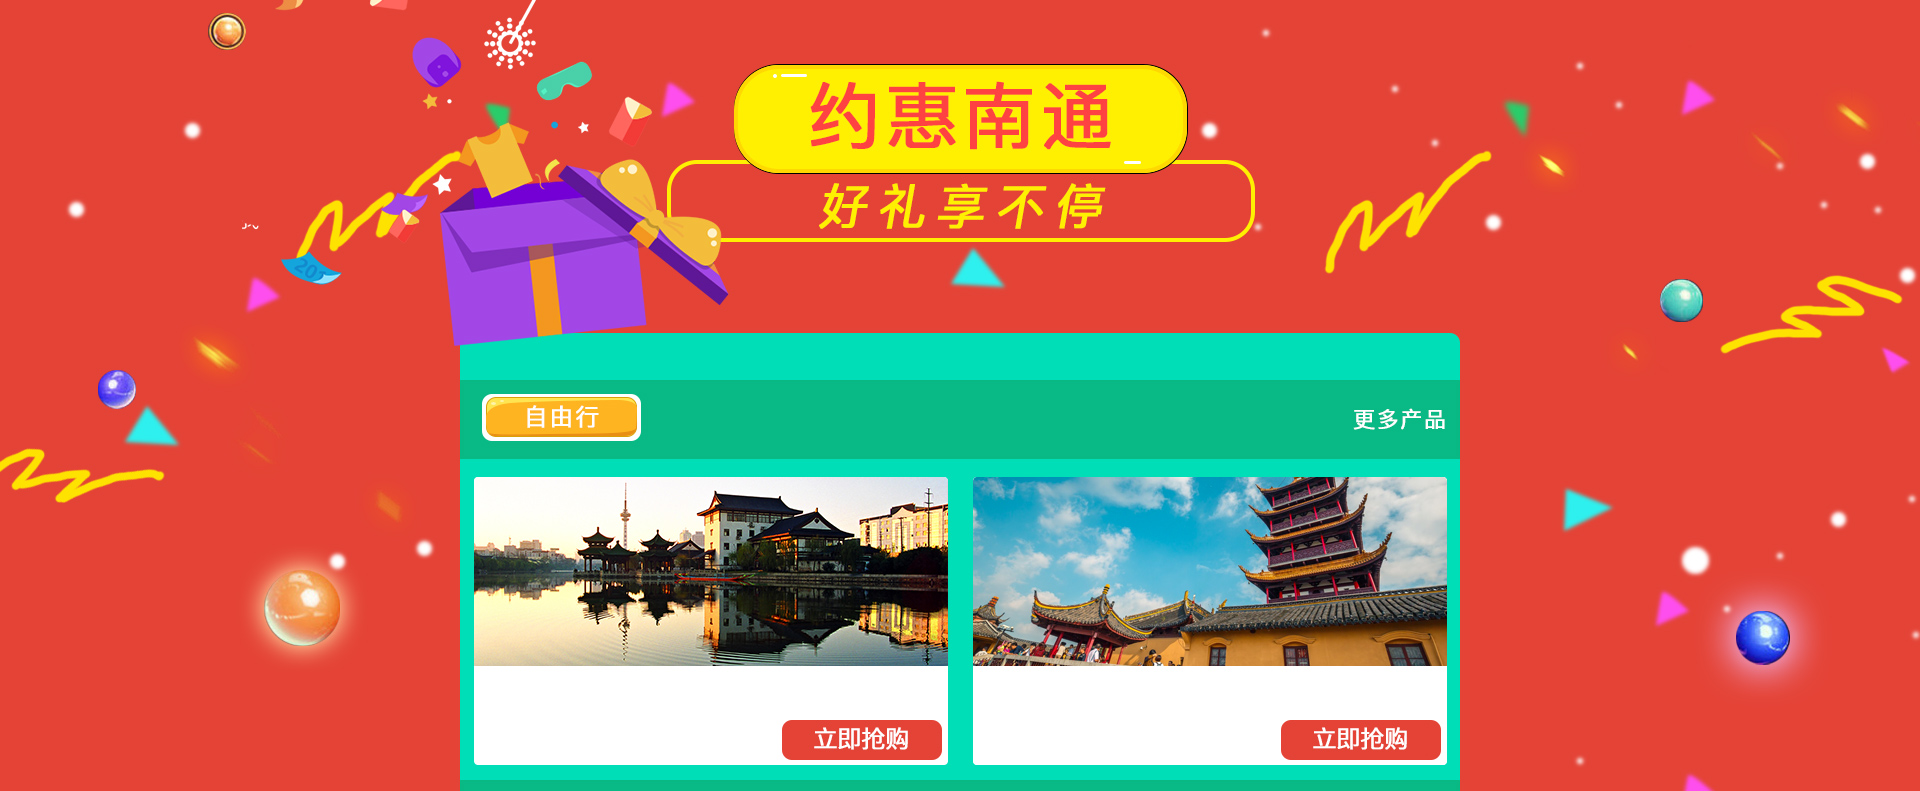
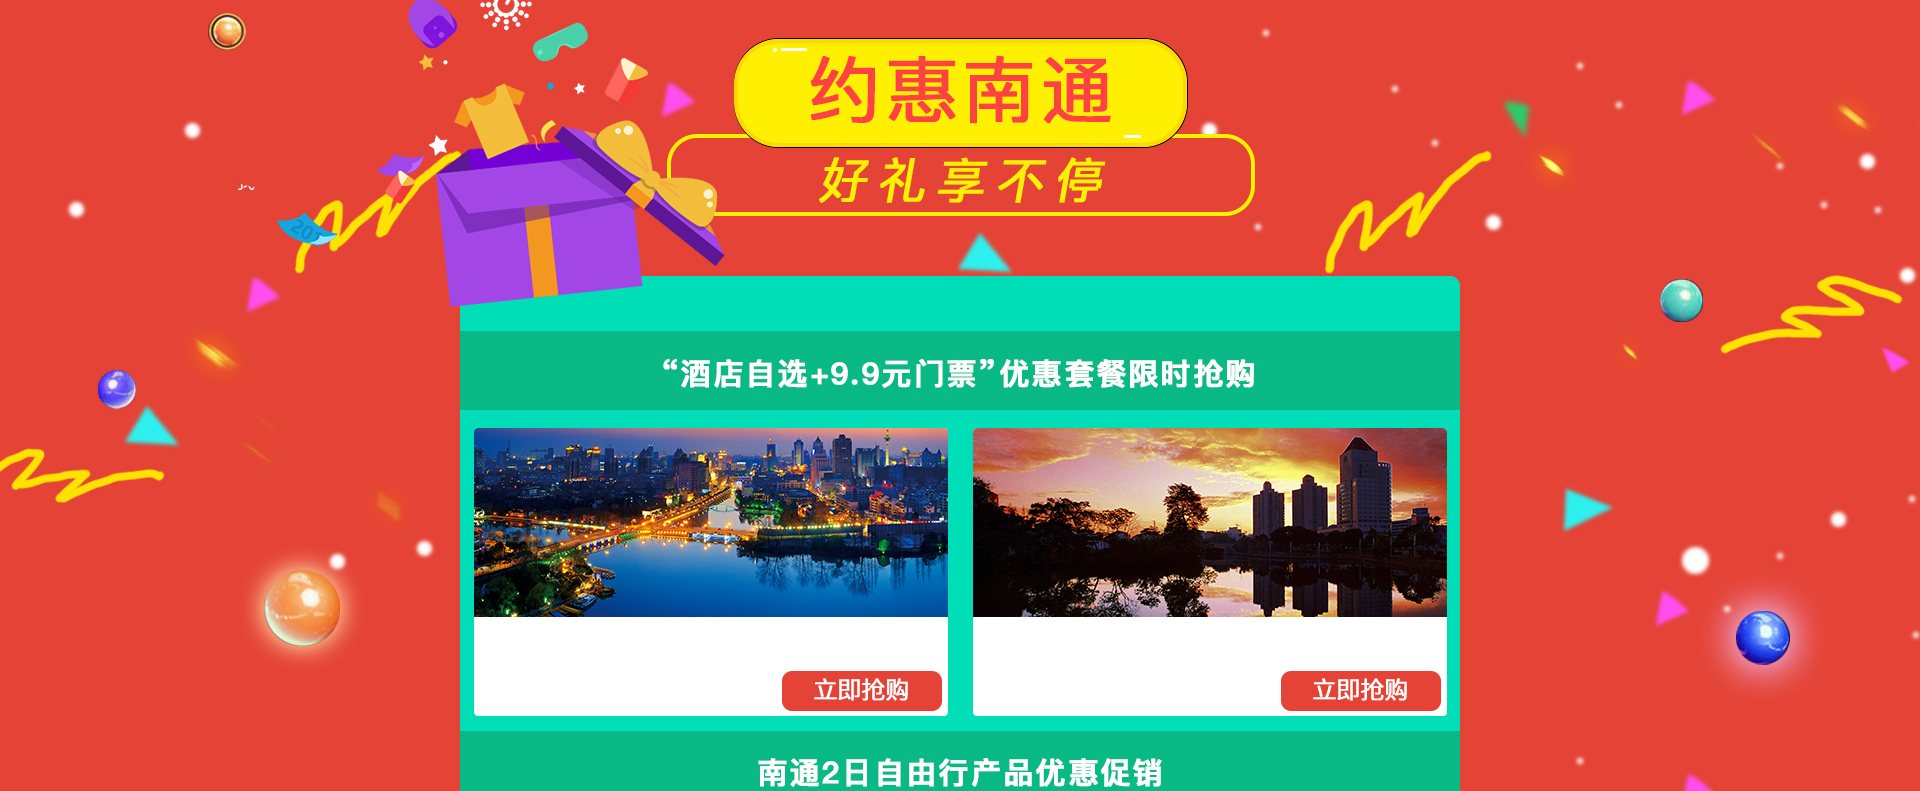
PCWeb

diff --git a/PCweb/20170423/index.html b/PCweb/20170423/index.html
@@ -5,7 +5,7 @@
 <title>约惠南通、礼让上海-超值9.9，南通旅游High翻天！</title>
 <link rel="stylesheet" type="text/css" href="css/style.css">
 <link rel="stylesheet" type="text/css" href="css/main.css">
-<script src="http://m.ctrip.com/webapp/destmarketing/Queryprice.ashx?verb=2&issetprice=yes&ChannelId=1&products=['D-134178','D-3813','D-140634','D-1949916','B-1013884260-82-30','B-1012093536-82-30','G-20635','G-336824']&sourceurl="></script>
+<script src="http://vacations.ctrip.com/destination-marketsiteui/Queryprice.ashx?verb=2&issetprice=yes&ChannelId=1&PageOnline=1&products=['D-134178','D-3813','D-140634','D-1949916','D-1411497','B-1014883990-2-12','B-1017218209-2-2','B-1017217672-2-2','B-1017218194-2-2']&sourceurl="></script>
 <script src="http://www.ctrip.com/sharescript/cohead.asp?teltype=1&nav=t" charset="gb2312"></script>
 </head>
 <body>
@@ -19,7 +19,7 @@
 				<div class="pro-item p-1-1">
 					<div class="pro-title">狼山风景区</div>
 					<div class="pro-price">
-						￥<span id="D_134178"></span>起
+						￥<span did="D_134178">9.9</span>起
 					</div>
 				</div>
 			</a>
@@ -27,7 +27,7 @@
 				<div class="pro-item p-1-2">
 					<div class="pro-title">濠河风景名胜区</div>
 					<div class="pro-price">
-						￥<span id="D_3813"></span>起
+						￥<span did="D_3813">9.9</span>起
 					</div>
 				</div>
 			</a>
@@ -40,7 +40,7 @@
 				<div class="pro-item p-1-1">
 					<div class="pro-title">南通探险王国</div>
 					<div class="pro-price">
-						￥<span id="D_140634"></span>起
+						￥<span did="D_140634">9.9</span>起
 					</div>
 				</div>
 			</a>
@@ -48,7 +48,15 @@
 				<div class="pro-item p-1-2">
 					<div class="pro-title">南通洲际绿博园</div>
 					<div class="pro-price">
-						￥<span id="D_1949916"></span>起
+						￥<span did="D_1949916">9.9</span>起
+					</div>
+				</div>
+			</a>
+			<a href="http://piao.ctrip.com/dest/t1411497.html" target="_blank">
+				<div class="pro-item p-1-3">
+					<div class="pro-title">南通水上乐园</div>
+					<div class="pro-price">
+						￥<span did="D_1411497">9.9</span>起
 					</div>
 				</div>
 			</a>
@@ -58,48 +66,45 @@
 	</div>
 	<div class="ctr ctr-3">
 		<div class="pro-box pro-box-3">
-			<a href="http://taocan.ctrip.com/freetravel/p1012093536s30.html?kwd=%E5%8D%97%E9%80%9A" target="_blank">
+			<a href="http://taocan.ctrip.com/freetravel/p1017218209s2.html" target="_blank">
 				<div class="pro-item p-1-1">
-					<div class="pro-title">南通2日自由行(4钻)·江海国际旅游节 鹏欣国宾馆+狼山濠河联票</div>
+					<div class="pro-title">南通2日自由行(4钻)·住鹏欣花园国宾馆+9.9元限时购水上王国门票</div>
 					<div class="pro-price">
-						￥<span id="B_1012093536_82"></span>起
+						￥<span id="B_1017218209_2"></span>起
 					</div>
 				</div>
 			</a>
-			<a href="http://taocan.ctrip.com/freetravel/p1013884260s30.html?kwd=%E5%8D%97%E9%80%9A" target="_blank">
+			<a href="http://taocan.ctrip.com/freetravel/p1014883990s12.html" target="_blank">
 				<div class="pro-item p-1-2">
-					<div class="pro-title">江苏南通2日自由行·江海国际旅游节 狼山祈福夜游濠河 酒店自选</div>
+					<div class="pro-title">南通2日自由行(5钻)·五星酒店自选+9.9元限时抢购 热门景区门票</div>
 					<div class="pro-price">
-						￥<span id="B_1013884260_82"></span>起
+						￥<span id="B_1014883990_2"></span>起
+					</div>
+				</div>
+			</a>
+			<div class="clear"></div>
+		</div>
+	</div>
+	<div class="ctr ctr-4">
+		<div class="pro-box pro-box-4">
+			<a href="http://taocan.ctrip.com/freetravel/p1017217672s2.html" target="_blank">
+				<div class="pro-item p-1-1">
+					<div class="pro-title">南通2日自由行(4钻)·四星酒店自选+9.9元限时抢购 热门景区门票</div>
+					<div class="pro-price">
+						￥<span id="B_1017217672_2"></span>起
+					</div>
+				</div>
+			</a>
+			<a href="http://taocan.ctrip.com/freetravel/p1017218194s2.html" target="_blank">
+				<div class="pro-item p-1-2">
+					<div class="pro-title">南通2日自由行(4钻)·住绿洲国际假日酒店+9.9元抢购探险王国门票</div>
+					<div class="pro-price">
+						￥<span id="B_1017218194_2"></span>起
 					</div>
 				</div>
 			</a>
 			<div class="clear"></div>
 			<a href="http://vacations.ctrip.com/tours/d-nantong-85/freetravel?from=do" target="_blank">
-				<div class="more-btn-2"></div>
-			</a>
-		</div>
-	</div>
-	<div class="ctr ctr-4">
-		<div class="pro-box pro-box-4">
-			<a href="http://taocan.ctrip.com/sh/20635.html?fluxentrance=10002" target="_blank">
-				<div class="pro-item p-1-1">
-					<div class="pro-title">南通证大喜玛拉雅酒店1晚+狼山风景区门票·狼山祈福听撞钟</div>
-					<div class="pro-price">
-						￥<span id="G_20635"></span>起
-					</div>
-				</div>
-			</a>
-			<a href="http://taocan.ctrip.com/sh/336824.html?fluxentrance=10002" target="_blank">
-				<div class="pro-item p-1-2">
-					<div class="pro-title">南通绿洲国际假日酒店1晚+狼山风景区门票·狼山祈福</div>
-					<div class="pro-price">
-						￥<span id="G_336824"></span>起
-					</div>
-				</div>
-			</a>
-			<div class="clear"></div>
-			<a href="http://taocan.ctrip.com/sh/search?fluxentrance=10002&kwfrom=70001&SearchClass=-1&keywords=%u5357%u901A" target="_blank">
 				<div class="more-btn-2"></div>
 			</a>
 		</div>

diff --git a/PCweb/20170423/css/main.css b/PCweb/20170423/css/main.css
@@ -1,6 +1,6 @@
 #n-header{
 	position: relative;
-	height: 820px;
+	height: 823px;
 	max-width: 1920px;
 	min-width: 1000px;
 	background: url("../images/tt.jpg") no-repeat top center;
@@ -23,12 +23,12 @@
 
 .ctr-1{
 	background: url("../images/bj-1.jpg") no-repeat top center;
-	height: 663px;
+	height: 677px;
 }
 
 .ctr-2{
 	background: url("../images/bj-2.jpg") no-repeat top center;
-	height: 525px;
+	height: 648px;
 }
 
 .ctr-3{
@@ -60,7 +60,7 @@
 	left: 50%;
 	margin-left: -460px;
 	height: 310px;
-	bottom: 19px;
+	bottom: 16px;
 }
 
 .pro-box-2,.pro-box-4{
@@ -72,16 +72,21 @@
 	top: 0px;
 }
 
+.pro-box-2{
+	height: 431px;
+    top: 5px;
+}
+
 .pro-box-3{
 	width: 973px;
 	margin-left: -487px;
-	bottom: 24px;
+	bottom: 75px;
 }
 
 .pro-box-4{
 	width: 973px;
 	margin-left: -487px;
-	top: 69px;
+	top: 20px;
 	height: 303px;
 }
 
@@ -95,14 +100,27 @@
 	float: left;
 }
 
-.p-1-1,.p-1-2{
+.p-1-1,.p-1-2,.p-1-3{
 	height: 100%;
 	width: 447px;
-	margin-right: 21px;
+	margin-right: 20px;
 }
 
 .p-1-2{
 	margin-right: 0px;
+}
+
+.pro-box-2 .p-1-1,.pro-box-2 .p-1-2,.pro-box-2 .p-1-3{
+	width: 292px;
+	margin-right: 20px;
+}
+
+.pro-box-2 .p-1-3{
+	margin-right: 0px;
+}
+
+.pro-box-2 .pro-title{
+	bottom: 100px;
 }
 
 .pro-title{
@@ -139,8 +157,8 @@
 .more-btn-2{
 	position: absolute;
 	right: 0px;
-	top: -58px;
-	width: 100px;
+	bottom: -58px;
+	width: 176px;
 	height: 40px;
 }
 
